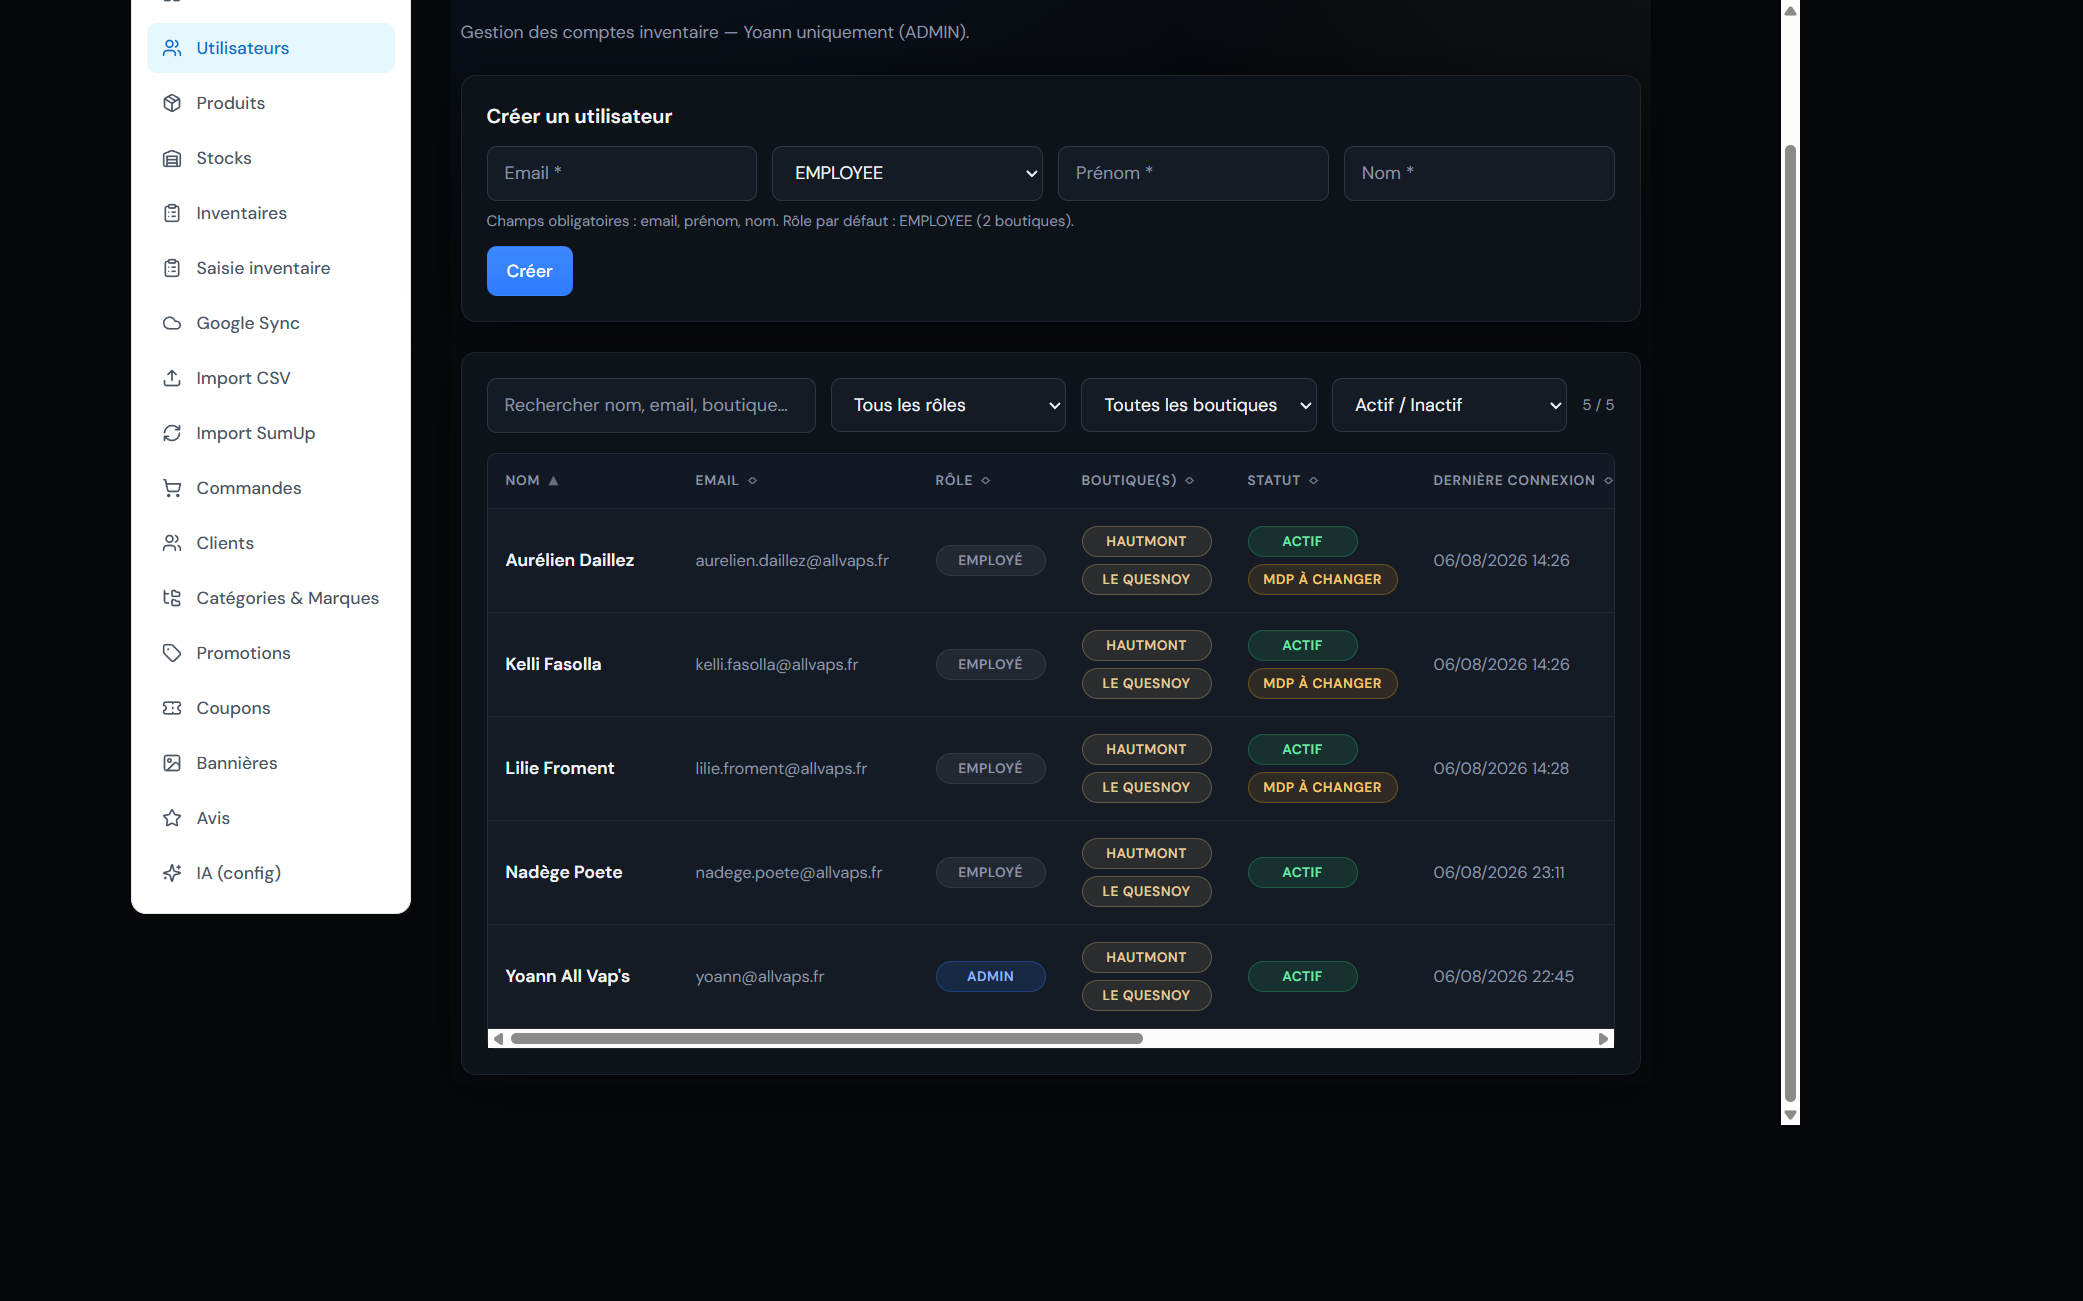
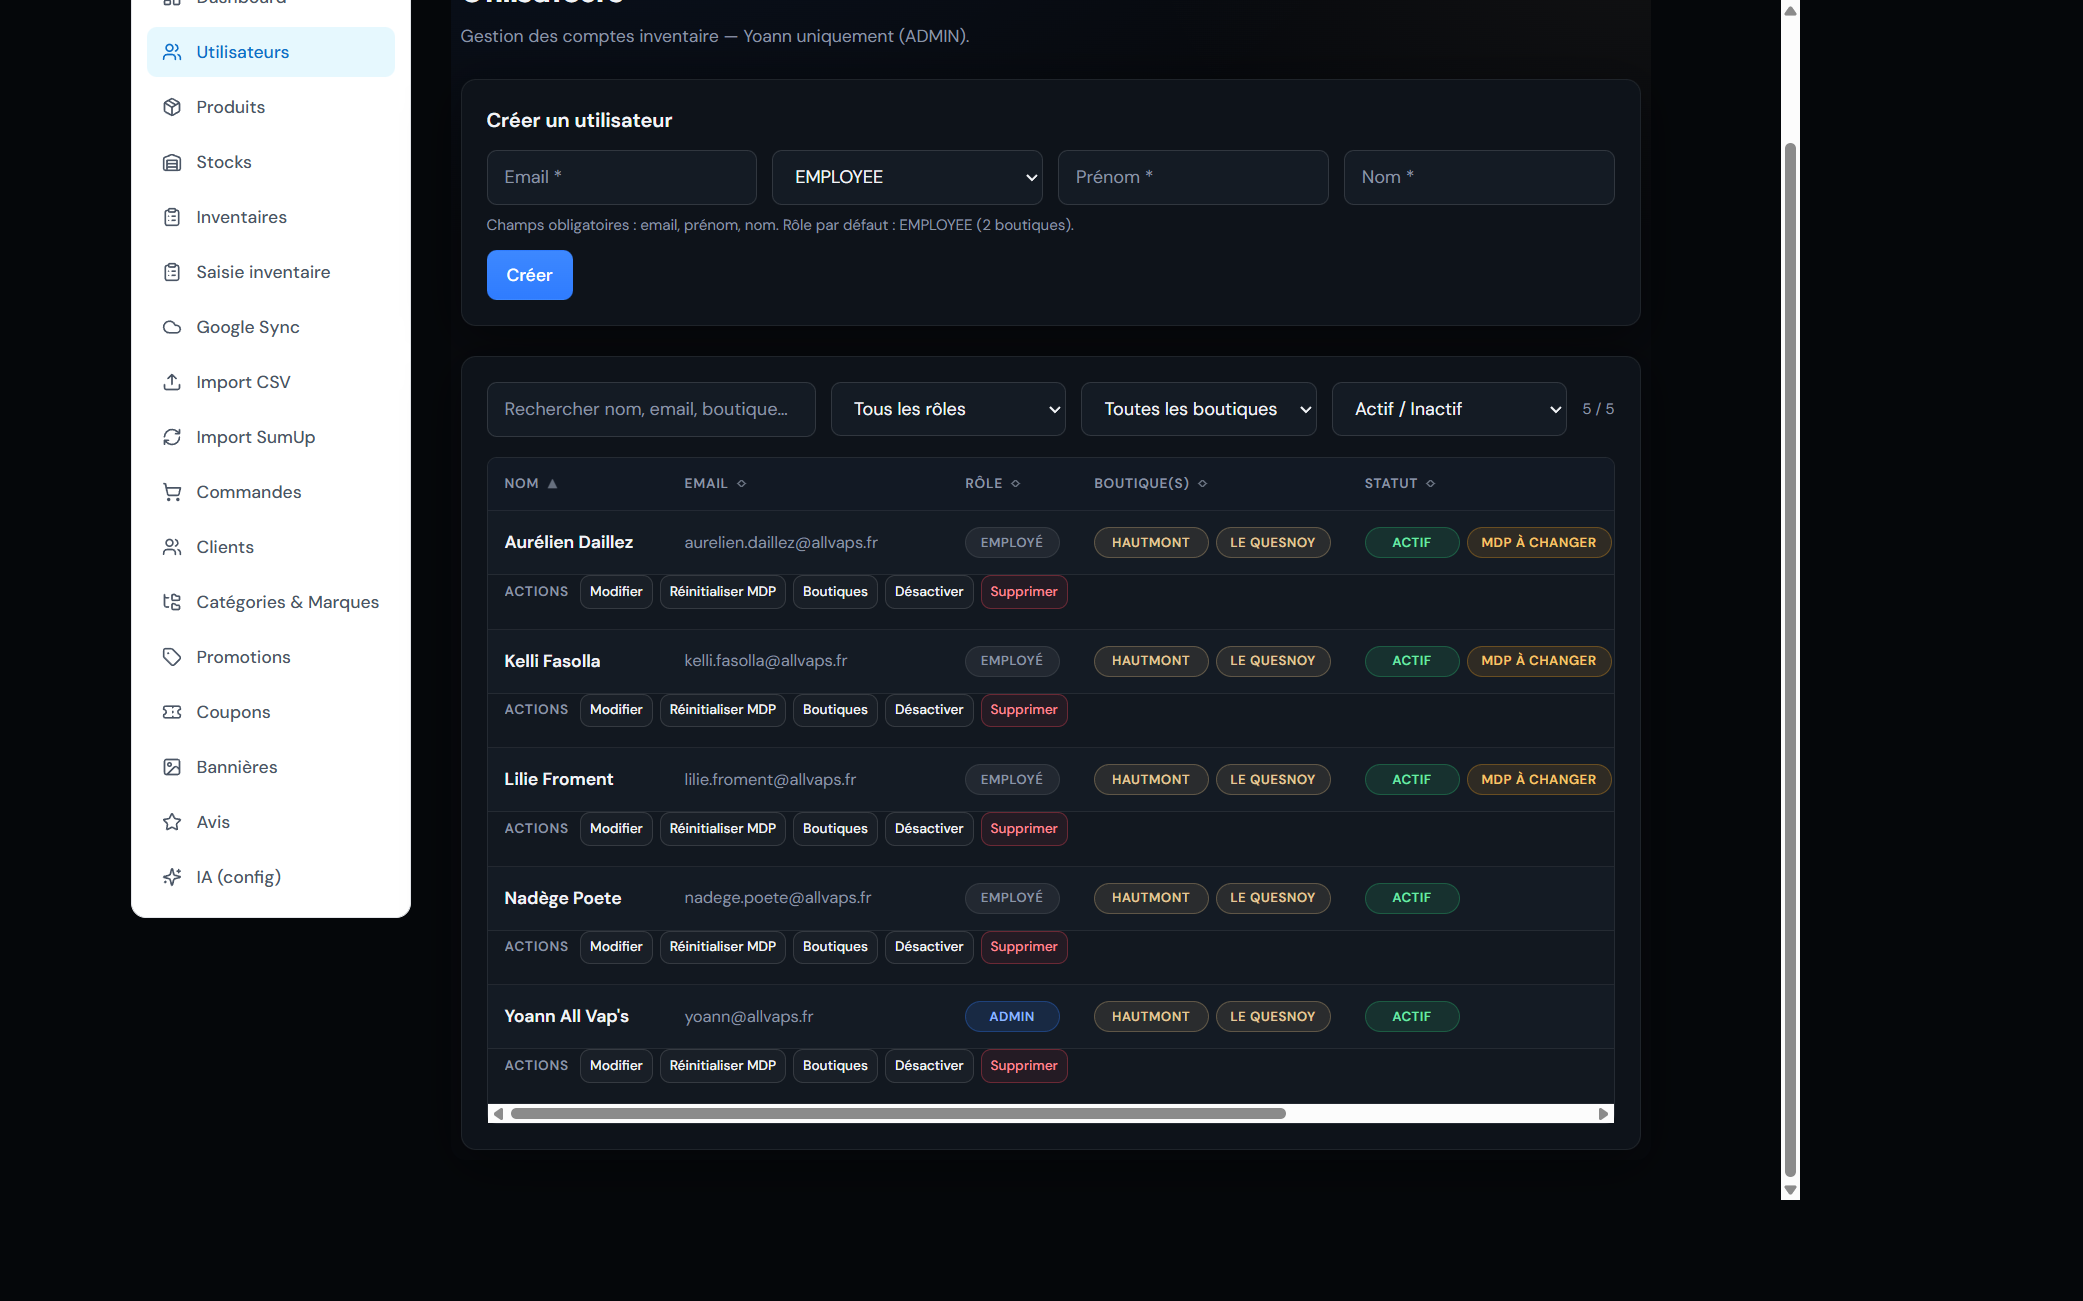
docs(ui): captures apres desktop/tablette/mobile Admin Utilisateurs

diff --git a/docs/ui-admin-users/RAPPORT_UI_UTILISATEURS.md b/docs/ui-admin-users/RAPPORT_UI_UTILISATEURS.md
@@ -1,65 +1,54 @@
 # Rapport UI — Administration > Utilisateurs
 
-**Statut :** ✅ Interface Administration Utilisateurs entièrement lisible (code local).
+**Statut final :** ✅ Interface Administration Utilisateurs entièrement lisible.
 
-## Problème (avant)
+**Déployé :** `inventaire.allvaps.fr/admin/users` (production Ready).
 
-- Colonnes trop étroites, mots coupés
-- Badges écrasés (`Actif`, `ADMIN`, `EMPLOYÉ`, `MDP à changer`)
-- Boutons empilés verticalement
-- Thème clair peu lisible dans le shell admin inventaire
-
-Capture avant : `docs/ui-admin-users/before-desktop.png`
-
-## Objectif atteint
-
-Tableau refait avec colonnes :
-
-| Nom | Email | Rôle | Boutique(s) | Statut | Dernière connexion | Sessions inventaire | Actions |
-
-- Largeur auto, `nowrap` sur badges / actions
-- Badges avec largeur minimale
-- Actions horizontales : Modifier · Réinitialiser MDP · Boutiques · Désactiver · Supprimer
-- Recherche instantanée + filtres rôle / boutique / actif-inactif + tri par colonne
-- Responsive : table desktop, colonnes réduites tablette, cartes mobile
-- Thème sombre All Vap’s (`admin-theme.css`)
-- **Aucune** modification API / permissions / logique métier  
-  (« Supprimer » = désactivation confirmée, pas de DELETE physique)
-
-## Composants / fichiers modifiés
-
-1. `components/admin/AdminUsersClient.tsx` — UI complète (table, cartes, filtres, tri)
-2. `app/admin/admin-theme.css` — styles `.admin-users-*`
-
-## Tests à valider
-
-### Desktop (≥1280px)
-
-- [ ] Toutes les colonnes visibles
-- [ ] Badges entiers (ADMIN, EMPLOYÉ, ACTIF, MDP À CHANGER, HAUTMONT, LE QUESNOY)
-- [ ] 5 boutons d’actions sur une seule ligne
-- [ ] Tri au clic sur en-têtes
-- [ ] Recherche + 3 filtres fonctionnels
-
-### Tablette (768–1279px)
-
-- [ ] Colonnes « Dernière connexion » / « Sessions » masquées intelligemment
-- [ ] Boutiques masquées sous 1024px (visibles dans panneau Boutiques)
-- [ ] Actions toujours horizontales (scroll horizontal si besoin)
-- [ ] Toolbar filtres en 2 colonnes
-
-### Mobile (&lt;768px)
-
-- [ ] Cartes utilisateur (pas de tableau)
-- [ ] Badges lisibles
-- [ ] Actions en wrap horizontal
-- [ ] Recherche + filtres empilés
-
-## Captures
+## Captures avant / après
 
 | État | Fichier |
 |------|---------|
-| Avant desktop | `before-desktop.png` |
-| Après desktop | `after-desktop.png` (à prendre après déploiement / preview) |
-| Après tablette | `after-tablet.png` |
-| Après mobile | `after-mobile.png` |
+| Avant (desktop) | `before-desktop.png` |
+| Après (desktop 1440) | `after-desktop.png` |
+| Après (tablette 900) | `after-tablet.png` |
+| Après (mobile 390) | `after-mobile.png` |
+
+## Composants / fichiers modifiés
+
+1. `components/admin/AdminUsersClient.tsx` — tableau, cartes mobile, recherche, filtres, tri, panneaux Modifier / Boutiques  
+2. `app/admin/admin-theme.css` — styles `.admin-users-*` (badges, barre d’actions, responsive)
+
+## Ce qui a changé (UI seule)
+
+- Colonnes : Nom · Email · Rôle · Boutique(s) · Statut · Dernière connexion · Sessions inventaire  
+- Badges lisibles avec largeur minimale : `ADMIN`, `EMPLOYÉ`, `ACTIF`, `MDP À CHANGER`, `HAUTMONT`, `LE QUESNOY`  
+- Actions horizontales sous chaque ligne : Modifier · Réinitialiser MDP · Boutiques · Désactiver · Supprimer  
+- Recherche instantanée + filtres rôle / boutique / actif-inactif + tri par colonne  
+- Desktop : toutes les colonnes (scroll horizontal si besoin)  
+- Tablette : masquage intelligent (connexion / sessions / boutiques selon largeur)  
+- Mobile : cartes utilisateur  
+- Thème sombre All Vap’s  
+- **Aucune** modification API, permissions, ni logique métier  
+  (« Supprimer » = désactivation confirmée, pas de DELETE physique)
+
+## Tests
+
+### Desktop (≥1280px)
+
+- [x] Badges entiers (rôles, statut, boutiques)
+- [x] Actions horizontales lisibles (barre sous la ligne)
+- [x] Tri sur en-têtes
+- [x] Recherche + 3 filtres
+- [x] Colonnes Dernière connexion / Sessions accessibles (scroll horizontal)
+
+### Tablette (~768–1024px)
+
+- [x] Réduction intelligente des colonnes
+- [x] Actions toujours horizontales
+- [x] Filtres utilisables
+
+### Mobile (<768px)
+
+- [x] Cartes utilisateur (tableau masqué)
+- [x] Badges lisibles
+- [x] Actions en flux horizontal (wrap si trop étroit)
